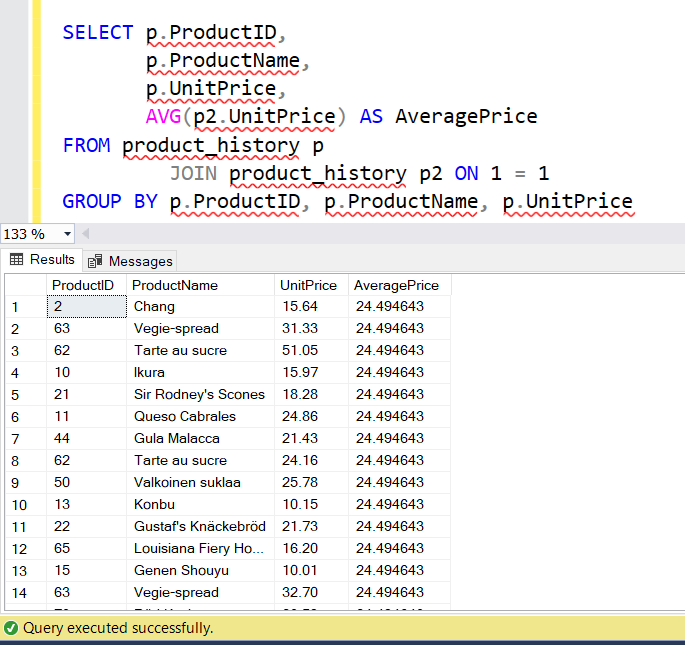
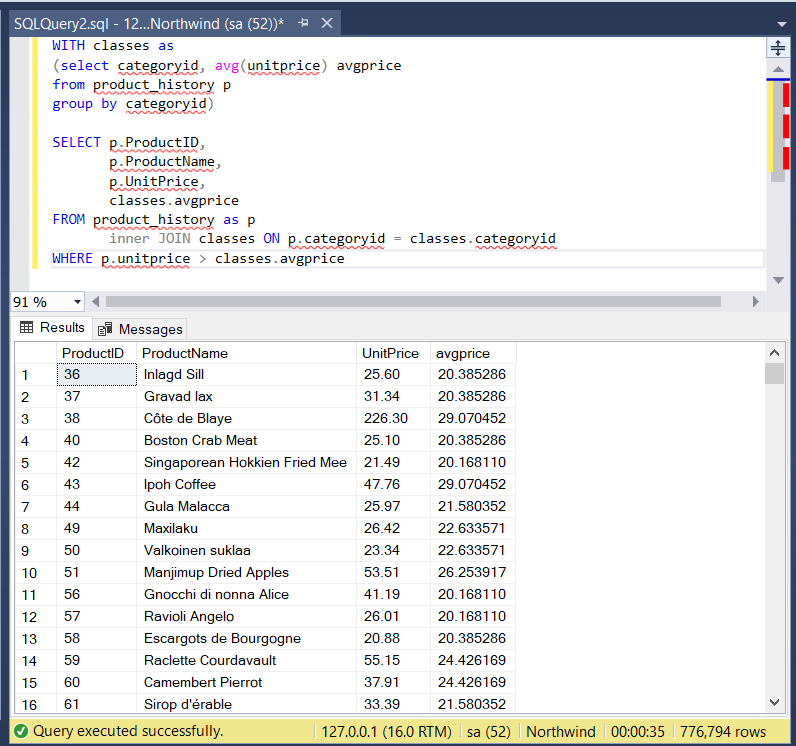
exercise 6 corrected

Changed region(s): [[0.0, 0.0, 1.0, 1.0], [0.7358, 0.2481, 0.9197, 0.3411]]

diff --git a/Lab_1-2/lab-1-2-sql-window-function.md b/Lab_1-2/lab-1-2-sql-window-function.md
@@ -420,9 +420,7 @@ To samo co w zadaniu 3, ale dla większego zbioru danych
    kategorii do której należy dany produkt. Wyświetl tylko pozycje (produkty) których cena jest większa niż średnia
    cena.
 
-```sql
-
-```
+(przykłady poniżej)
 
 2. Napisz polecenie z wykorzystaniem podzapytania, join'a oraz funkcji okna. Porównaj zapytania. Porównaj czasy oraz
    plany
@@ -432,32 +430,46 @@ To samo co w zadaniu 3, ale dla większego zbioru danych
 
 ```sql
 SELECT p.ProductID,
-       p.ProductName,
+	   p.ProductName,
        p.UnitPrice,
-       (SELECT AVG(p2.UnitPrice) FROM Products AS p2) AS AveragePrice
-FROM product_history AS p
+	   (SELECT AVG(ph.UnitPrice) 
+	    FROM product_history ph 
+	    WHERE ph.CategoryID = p.CategoryID) as avgprice
+FROM product_history as p
+WHERE p.UnitPrice > 
+      (SELECT AVG(ph.UnitPrice) 
+       FROM product_history ph 
+       WHERE ph.CategoryID = p.CategoryID)
 ```
 
 - Polecenie z wykorzystaniem joina
 
 ```sql
+WITH classes as
+(select categoryid, avg(unitprice) avgprice
+from product_history p
+group by categoryid)
+
 SELECT p.ProductID,
-       p.ProductName,
+	   p.ProductName,
        p.UnitPrice,
-       AVG(p2.UnitPrice) AS AveragePrice
-FROM product_history p
-         JOIN product_history p2 ON 1 = 1
-GROUP BY p.ProductID, p.ProductName, p.UnitPrice
+	   classes.avgprice
+FROM product_history as p
+	   inner JOIN classes ON p.categoryid = classes.categoryid
+WHERE p.unitprice > classes.avgprice
 ```
 
 - Polecenie z wykorzystaniem funkcji okna
 
 ```sql
-SELECT p.ProductID,
+WITH data as
+(SELECT p.ProductID,
        p.ProductName,
        p.UnitPrice,
-       AVG(UnitPrice) OVER() AS AveragePrice
-FROM product_history AS p
+       AVG(UnitPrice) OVER(PARTITION BY p.CategoryID) AS AveragePrice
+FROM product_history AS p)
+SELECT * from data
+WHERE UnitPrice > AveragePrice
 ```
 
 Przetestuj działanie w różnych SZBD (MS SQL Server, PostgreSql, SQLite)
